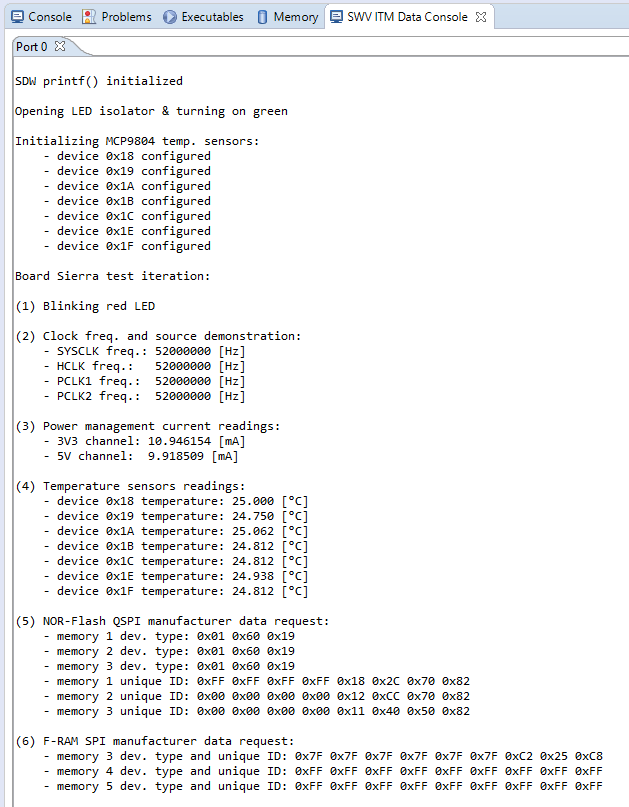
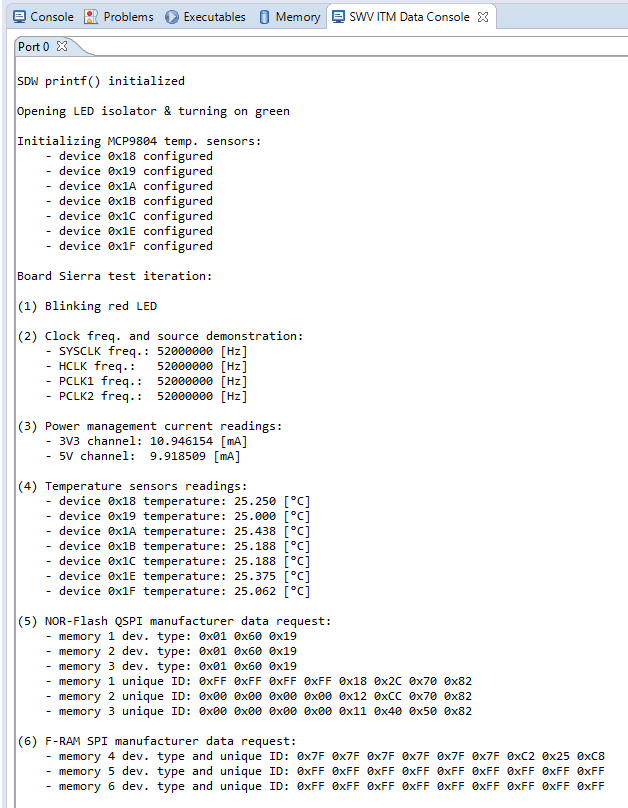
fram id fix

Changed region(s): [[0.0, 0.0, 0.9682, 1.0]]

diff --git a/Core/Src/main.c b/Core/Src/main.c
@@ -358,8 +358,8 @@ int main(void)
 	uint8_t SPI_command[] = {0x9F};
 
 	//loop thru memories
-	for(int i=3; i<6; i++) {
-		SPI_ret = SPI_read_data(&hspi1, i-2, SPI_command, SPI_buff, 9);
+	for(int i=4; i<7; i++) {
+		SPI_ret = SPI_read_data(&hspi1, i-3, SPI_command, SPI_buff, 9);
 		if(SPI_ret != 0) printf("\t- memory %d failed at %d\n", i, SPI_ret);
 		else {
 			printf("\t- memory %d dev. type and unique ID: ", i);
